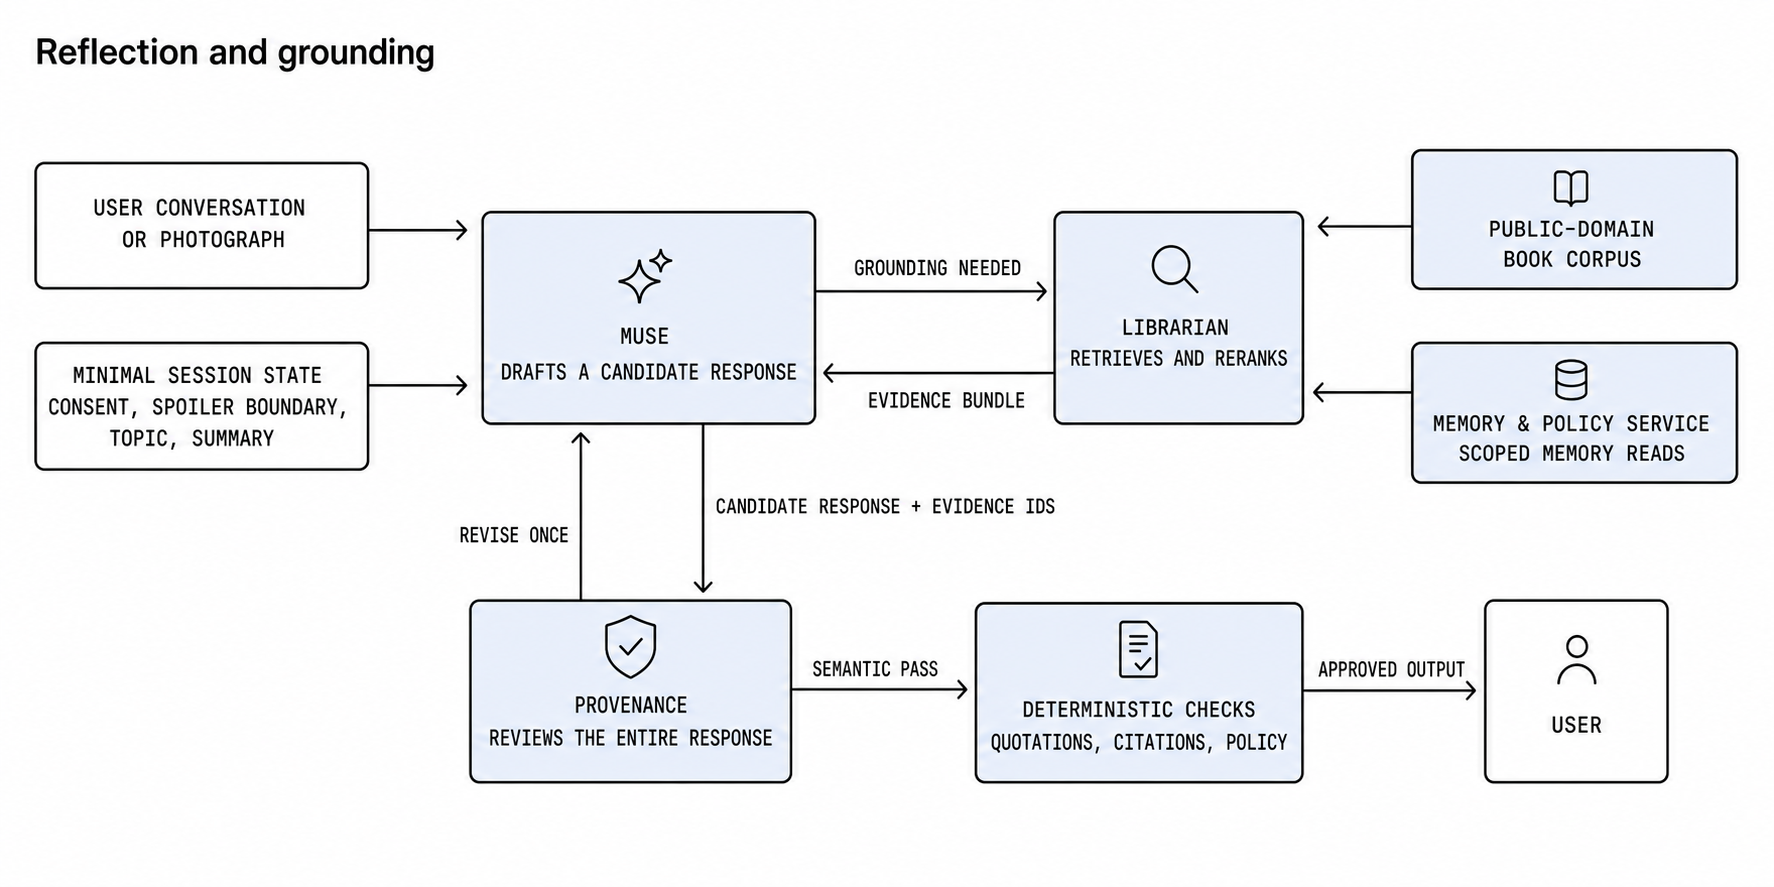
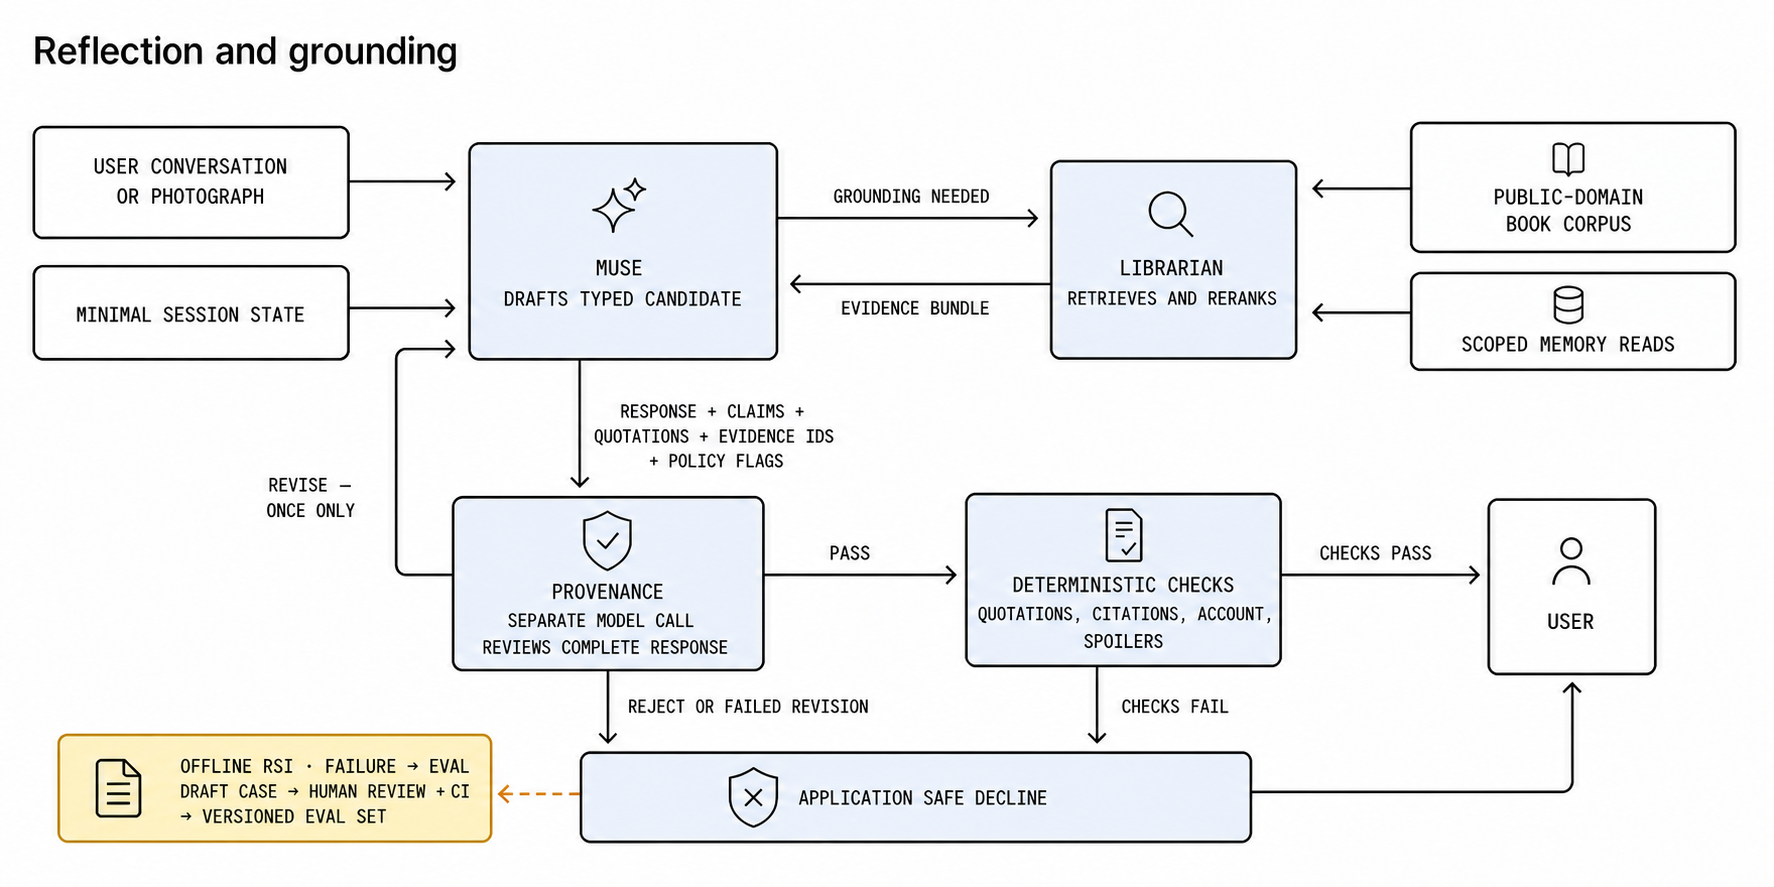
docs: add bounded RSI loops and refresh diagrams

diff --git a/docs/specification.md b/docs/specification.md
@@ -8,7 +8,7 @@ This document is the canonical source for product scope, architecture, implement
 
 Linger is an academic prototype of a personal reflection and memory companion, grounded initially in a small literary corpus. It helps a user articulate why an idea or experience mattered, preserve it as a structured memory, and later explore grounded, tentative connections across conversations, books, photographs, and evidence found through general web search.
 
-General-purpose AI agents already offer memory, image understanding, web search, and delegated tasks. Linger is not trying to be another general personal agent. It is a purpose-built reflection and memory application: a **provenance-first reflection companion** that keeps the user's words, source evidence, and generated interpretation distinct. Before any Muse-generated response reaches the user, a separate Provenance invocation semantically reviews the complete draft for quotations, factual claims, sensitive inferences, attribution, privacy, spoiler, and prompt-injection risks. Application code then performs deterministic checks where applicable. A non-factual reflection may pass without retrieval, but never without review.
+General-purpose AI agents already offer memory, image understanding, web search, and delegated tasks. Linger is not trying to be another general personal agent. It is a purpose-built reflection and memory application: a **provenance-first reflection companion** that keeps the user's words, source evidence, and generated interpretation distinct. Before any Muse-generated response reaches the user, Provenance — a separate model call — reviews the complete draft for quotations, factual claims, sensitive inferences, attribution, privacy, spoiler, and prompt-injection risks. Application code then performs deterministic checks where applicable. A non-factual reflection may pass without retrieval, but never without review.
 
 [Project Gutenberg](https://www.gutenberg.org/) supplies the initial corpus of 3–5 deliberately selected public-domain books. The prototype records source metadata and discloses that this small, older corpus may contain dated cultural perspectives.
 
@@ -43,9 +43,10 @@ Automatic capture does not require per-memory approval once enabled. Content abo
 - opt-in automatic memory capture with notice, undo, pause, review, correction, and cascading deletion;
 - original memories, generated summaries, duplicate links, topic groups, and progressive disclosure;
 - conversation- or photograph-triggered connections using internal evidence and optional general web search;
-- a mandatory, context-restricted output gate, deterministic post-checks, one bounded revision, and an application-authored safe decline;
+- a mandatory, context-restricted output gate, deterministic post-checks, at most one revision, and an application-authored safe decline;
 - a simple web interface, multiple test accounts, CI/CD, and reproducible test deployment;
-- adversarial, output-gate, reflection, retrieval, memory-quality, connection-quality, cost, and latency evaluation.
+- adversarial, output-gate, reflection, retrieval, memory-quality, connection-quality, cost, and latency evaluation;
+- two bounded recursive self-improvement loops — failure-to-eval promotion and a Sculptor-curated system playbook (Section 9).
 
 ### 3.2 Stretch
 
@@ -63,7 +64,7 @@ Automatic capture does not require per-memory approval once enabled. Content abo
 - general shell, browser-control, or external-action capabilities;
 - continuous monitoring or unsolicited resurfacing;
 - mental-health profiling, diagnosis, or crisis-resource routing;
-- autonomous prompt or skill self-modification;
+- autonomous prompt or skill self-modification — the self-improvement loops in Section 9 produce human-reviewed proposals only and never apply changes themselves;
 - production scale, availability, compliance, or regulatory claims; and
 - any claim that prototype telemetry measurably improved the system.
 
@@ -75,7 +76,7 @@ The system contains five reasoning agents and one deterministic service:
 |---|---|---|
 | **Muse** | Maintains the reflection conversation, handles photographs and spoiler uncertainty, routes work, and produces candidate responses that cannot be sent directly to the user. | None |
 | **Librarian** | Plans, executes, fuses, and reranks retrieval across the corpus and authorised memories. | None |
-| **Sculptor** | Proposes structured memories, summaries, duplicate links, groups, and derived-record updates while preserving originals. | May request memory writes |
+| **Sculptor** | Proposes structured memories, summaries, duplicate links, groups, and derived-record updates while preserving originals. A scheduled Sculptor task, run outside user conversations, also curates the system playbook of operational lessons (Section 9.2). | May request memory writes; may propose playbook pull requests |
 | **Serendipity** | Searches internal and optional web evidence and proposes or declines tentative connections. | None |
 | **Provenance** | Semantically reviews every complete Muse candidate response and passes, requests one revision, or rejects it based on evidence, attribution, privacy, spoiler, sensitive-inference, and injection checks. | None |
 | **Memory & Policy Service** | Authenticates account scope and deterministically enforces access, storage, versioning, review, and cascading deletion. | Commits validated writes |
@@ -84,17 +85,17 @@ The Memory & Policy Service derives account identity from authenticated request 
 
 Agents are logical roles, not necessarily separate models or processes. Muse handles the main interaction; Librarian, Sculptor, and Serendipity are invoked only when their specialised work is needed; Provenance runs for every Muse candidate response.
 
-The five roles separate conversation, retrieval, memory curation, connection generation, and independent verification. Scoped hand-offs keep each invocation within a bounded task context; deterministic application code enforces access, writes, and output release.
+The five roles separate conversation, retrieval, memory curation, connection generation, and independent verification. Each agent is handed only the task in front of it, never the whole conversation; deterministic application code enforces access, writes, and output release.
 
 Each hand-off carries only the candidate response, claims, evidence identifiers, confidence, and policy flags required by the next step. Full transcripts and unrestricted working context are not passed between agents.
 
-Provenance is a separate, context-isolated model invocation. It receives the complete candidate response, cited evidence, and applicable policy constraints, but neither unrestricted agent working context nor write tools. It independently detects quotations, factual claims, and sensitive inferences instead of trusting Muse's declarations. This provides separation of duties, not model independence, because the same underlying model may be used.
+Provenance is a separate model call that shares no working context with the other agents. It receives the complete candidate response, the cited evidence, and the applicable policy constraints — nothing else, and no write tools. It independently detects quotations, factual claims, and sensitive inferences instead of trusting Muse's declarations. This provides separation of duties, not model independence, because the same underlying model may be used.
 
 ### 4.1 Output release contract
 
 Every Muse invocation returns a typed candidate containing the complete response text plus its declared claims, quotations, evidence identifiers, and sensitive-inference flags. Those fields assist review but do not authorise release: Provenance examines the entire draft and may identify items Muse omitted or misclassified. Regular expressions and structural checks may provide defence in depth, but they are not the semantic security boundary.
 
-Provenance returns `pass`, `revise`, or `reject`. After a semantic pass, application code validates exact quotations, citation locations, account scope, and spoiler constraints where applicable. Only approved output is displayed. A first `revise` verdict gives Muse one bounded revision that returns through the same review path; a rejection or failed revision produces an application-authored safe decline.
+Provenance returns `pass`, `revise`, or `reject`. After a semantic pass, application code validates exact quotations, citation locations, account scope, and spoiler constraints where applicable. Only approved output is displayed. A first `revise` verdict gives Muse one revision, which returns through the same review path; a rejection or failed revision produces an application-authored safe decline.
 
 ### 4.2 End-to-end flows
 
@@ -132,7 +133,7 @@ The complete memory archive is never injected into every prompt.
 
 ### 5.2 Memory record
 
-An active memory is owned by the requesting account and not deleted. It may have been captured automatically while memory capture was enabled or saved explicitly by the user.
+An active memory belongs to the requesting account and has not been deleted. It may have been captured automatically while memory capture was enabled or saved explicitly by the user.
 
 Each active memory contains:
 
@@ -196,7 +197,7 @@ Whenever an exact quotation is displayed or stored, application code verifies it
 
 - Automatic capture requires explicit onboarding opt-in.
 - Every capture produces a visible notice and immediate undo.
-- Before a long opted-in conversation is compacted or closed, one bounded Sculptor pass checks for an important uncaptured reflection under the same notice, undo, and sensitive-content rules.
+- Before a long opted-in conversation is compacted or closed, Sculptor makes one final check for an important uncaptured reflection, under the same notice, undo, and sensitive-content rules.
 - Raw photographs remain transient unless the user explicitly saves them.
 - Derived memories from photographs may be captured only while opt-in remains active.
 - Sensitive-trait content is never captured automatically.
@@ -264,6 +265,8 @@ Required outcomes:
 
 Every factual web claim must include a retrievable citation, and every evidence identifier must resolve. Any LLM-as-judge result is secondary and labelled non-independent.
 
+The 40 authored cases are the frozen baseline. Failure-to-eval promotion (Section 9.1) may extend the set with additional human-approved cases; promoted cases follow the same format and versioning and never replace, relax, or retire a baseline case.
+
 ### 7.3 Deployment checks
 
 The test deployment supports multiple accounts and up to five concurrent sessions. A basic load test reports success rate, p95 latency, and per-session model cost.
@@ -272,12 +275,58 @@ The test deployment supports multiple accounts and up to five concurrent session
 
 The stack decision remains open between TypeScript with Pi Agent Core and Python with PydanticAI core and FastAPI. OpenAI model calls use the Responses API so reasoning can be retained across tool calls and long-running conversations can be compacted. Agent contexts remain separate and bounded; API conversation state is working context, not durable product memory. The remaining stack is a lightweight web UI, Docker, and GitHub Actions.
 
-Prompts, corpus builds, policies, tool contracts, schemas, and evaluation cases are versioned. Fast mocked contract tests run in CI, while live-model evaluations separately measure output-gate recall, quality, cost, and latency. Prompt changes remain human-reviewed and must pass CI gates. Tracing records Provenance verdicts, decisions, and evidence identifiers without logging raw personal memories. The running test deployment, not only unit tests, is used to exercise rejected-draft suppression, output-gate bypass, account isolation, deletion, spoiler filters, forbidden memory requests, and prompt-injection defences.
+Prompts, corpus builds, policies, tool contracts, schemas, evaluation cases, and the system playbook are versioned. Fast mocked contract tests run in CI, while live-model evaluations separately measure output-gate recall, quality, cost, and latency. Prompt changes remain human-reviewed and must pass CI gates. Proposals produced by the self-improvement loops in Section 9 enter through this same review-and-CI path; they have no other route into the repository or the running system. Tracing records Provenance verdicts, decisions, and evidence identifiers without logging raw personal memories. The running test deployment, not only unit tests, is used to exercise rejected-draft suppression, output-gate bypass, account isolation, deletion, spoiler filters, forbidden memory requests, and prompt-injection defences.
 
 ### 8.1 Agent telemetry and debugging
 
 For the Python/Pydantic AI implementation, Pydantic Logfire is the OpenTelemetry backend for agent telemetry. Each incoming request starts a correlated trace spanning the relevant Muse, Librarian, Sculptor, Serendipity, and Provenance invocations, including model calls, tool calls, hand-offs, deterministic post-checks, and the final release or safe-decline decision. Spans record only operational metadata needed to debug and evaluate the system: agent role, deployment environment, duration, status, retries, failures, token or cost metadata when available, validation outcomes, Provenance verdicts, revision count, and non-content trace identifiers.
 
-Telemetry is diagnostic and evaluative: it helps verify bounded hand-offs, account isolation, mandatory Provenance review, deterministic validation, rejected-draft suppression, safe declines, latency, cost, and failure behaviour. It must never authorise output release, choose account scope, or commit memory writes; the Memory & Policy Service remains the source of truth for access control and durable state. Logs and spans must exclude raw personal memories, full user or assistant messages, photographs, raw book or web excerpts, credentials, API keys, and sensitive-inference content. This satisfies the specification's observability, debugging, privacy, and acceptance-testing requirements without making telemetry part of the product's reasoning or memory model.
+Telemetry exists to debug and evaluate the system: it helps verify bounded hand-offs, account isolation, mandatory Provenance review, deterministic validation, rejected-draft suppression, safe declines, latency, cost, and failure behaviour. It must never authorise output release, choose account scope, or commit memory writes; the Memory & Policy Service remains the source of truth for access control and durable state. Logs and spans must exclude raw personal memories, full user or assistant messages, photographs, raw book or web excerpts, credentials, API keys, and sensitive-inference content. This satisfies the specification's observability, debugging, privacy, and acceptance-testing requirements without making telemetry part of the product's reasoning or memory model.
 
 Telemetry must remain behind an OpenTelemetry-compatible exporter so the backend can be replaced without changing agent contracts or application authority. If the TypeScript/Pi implementation is selected, it must emit the same trace and event semantics through an equivalent OpenTelemetry backend.
+
+## 9. Recursive self-improvement
+
+Linger includes a deliberately bounded form of **recursive self-improvement (RSI)**: the system helps improve its own harness — its regression tests and its operational guidance — while humans retain approval authority over every change. This follows current frontier practice, which frames near-term RSI not as a model modifying its own weights or prompts autonomously, but as agents improving the scaffolding around the model through feedback loops that end in reviewed, gated changes. Linger adopts exactly that shape: each loop turns an observed failure into a versioned, human-approved file in the repository, and no loop grants any agent new runtime authority.
+
+Two loops are in scope.
+
+### 9.1 Failure-to-eval promotion
+
+**Pain point.** A hand-authored evaluation set goes stale the moment the system meets real inputs. Observed failures — blocked prompt-injection attempts, Provenance rejections, failed deterministic post-checks — are the best possible regression tests, but converting them by hand is toil that reliably does not happen.
+
+**Mechanism.** When the running system blocks a seeded or live failure, the harness drafts a candidate evaluation case in the versioned case format of Section 7.2, recording the input, the expected verdict or behaviour, and forbidden outputs. The drafting step writes the candidate file and has no other authority; candidates are queued for human approval and merged as ordinary pull requests, after which CI runs them permanently. A detected injection attempt therefore becomes, within one review cycle, a frozen test the system can never silently regress against.
+
+**Agents involved.** Provenance and the deterministic post-check layer act as detectors; a small drafting step formats candidates; humans and CI are the release gate. No detector gains new authority — detection already happens as part of Section 6.5.
+
+**Success measures.** End-to-end demonstration that a blocked adversarial input becomes a merged CI case; a deliberately reintroduced regression is caught by a promoted case; 100% of promoted cases are human-approved and versioned before entering the set.
+
+### 9.2 Sculptor-curated system playbook
+
+**Pain point.** Every agent system accumulates operational lessons — recurring Provenance critique patterns, evaluation-failure clusters, retrieval quirks, prompt gotchas — and they evaporate because nothing owns them. Current harness-engineering practice keeps these lessons in a versioned playbook that developers — and, where useful, prompts — draw on at the moment they are relevant. Maintaining such a playbook is curation work: deduplicate, summarise, link, and prune — which is precisely Sculptor's existing skill set, pointed at a second corpus.
+
+**Mechanism.** A scheduled Sculptor task, run outside user conversations, reads operational records only — Provenance verdict metadata, evaluation results, developer notes — and proposes playbook edits: merge duplicate lessons, summarise clusters, retire stale entries, link related ones. The playbook is a versioned repository file, not a record in the user memory store; the Memory & Policy Service is not involved. Sculptor's output is a proposed pull request; humans review and CI gates the merge, identical to any other change under Section 8.
+
+**Relationship to Sculptor's product role.** The curation contract is unchanged — propose, never commit; preserve originals; work within a bounded context. Only the corpus differs: one curation agent, two memory stores — user memories and the system's memory of itself — under the same safeguards. The playbook task never receives raw personal memories, full transcripts, photographs, or sensitive-inference content, consistent with Sections 6.3 and 8.1.
+
+**Relationship to failure-to-eval promotion.** The two loops are complementary halves of one flywheel and overlap minimally: Section 9.1 promotes failures into frozen *tests* so regressions are caught; Section 9.2 curates failures into *guidance* so repeats are prevented.
+
+**Success measures.** Playbook deduplication precision on seeded duplicate lessons; human acceptance rate of proposed edits; recurrence of repeated Provenance rejection classes tracked across releases. These are reported as evidence that the loop operates as designed; consistent with Section 3.3, the prototype makes no claim that telemetry measurably improved the system.
+
+### 9.3 Boundaries
+
+- Every RSI output is a proposal. Humans review and CI gates every merge; no loop applies changes to prompts, policies, code, or evaluation cases itself.
+- Both loops run on a schedule, not during user conversations, and add no latency or authority to any user-facing flow.
+- No agent gains write authority: playbook and evaluation-case writes happen through repository review, not through the Memory & Policy Service, and Sculptor's product-side write path is unchanged.
+- Loops consume only the operational metadata permitted by Section 8.1 — never raw personal memories, full messages, or sensitive-inference content.
+- Autonomous prompt or skill self-modification remains out of scope (Section 3.3); metric trends are reported without claiming measured product uplift.
+
+### 9.4 Practice-module alignment
+
+These loops are the specification's explicit answer to the practice-module briefing (`docs/submissions/aas-practice-module-briefing.pdf`), which asks which parts of the AI system lifecycle can be automated to reduce development effort and improve system quality attributes, and which grades the project on concrete artifacts:
+
+- **MLSecOps/LLMSecOps pipeline design.** Failure-to-eval promotion is the automated-testing, versioning, and monitoring portion of the CI/CD pipeline made self-extending: security detections feed the test suite through a reviewed path.
+- **AI security risk register.** Each identified risk (prompt injection, unsupported claims, sensitive-inference leakage) gains a living mitigation — *detected once, converted to a permanent test* — rather than a static bullet point.
+- **Testing artifacts.** Promoted cases, the seeded adversarial corpus, and the evaluation harness of Section 7.2 constitute the required AI security tests and end-to-end verification.
+- **Agent design documentation.** The system playbook demonstrates Sculptor's curation contract generalising across two memory stores under identical safeguards — an agent-design argument, not an added subsystem.
+- **Responsible-AI governance.** Both loops are bounded, human-in-the-loop, and auditable: every change they produce is versioned, reviewed, and traceable, aligning the self-improvement story with the module's governance and accountability requirements.
